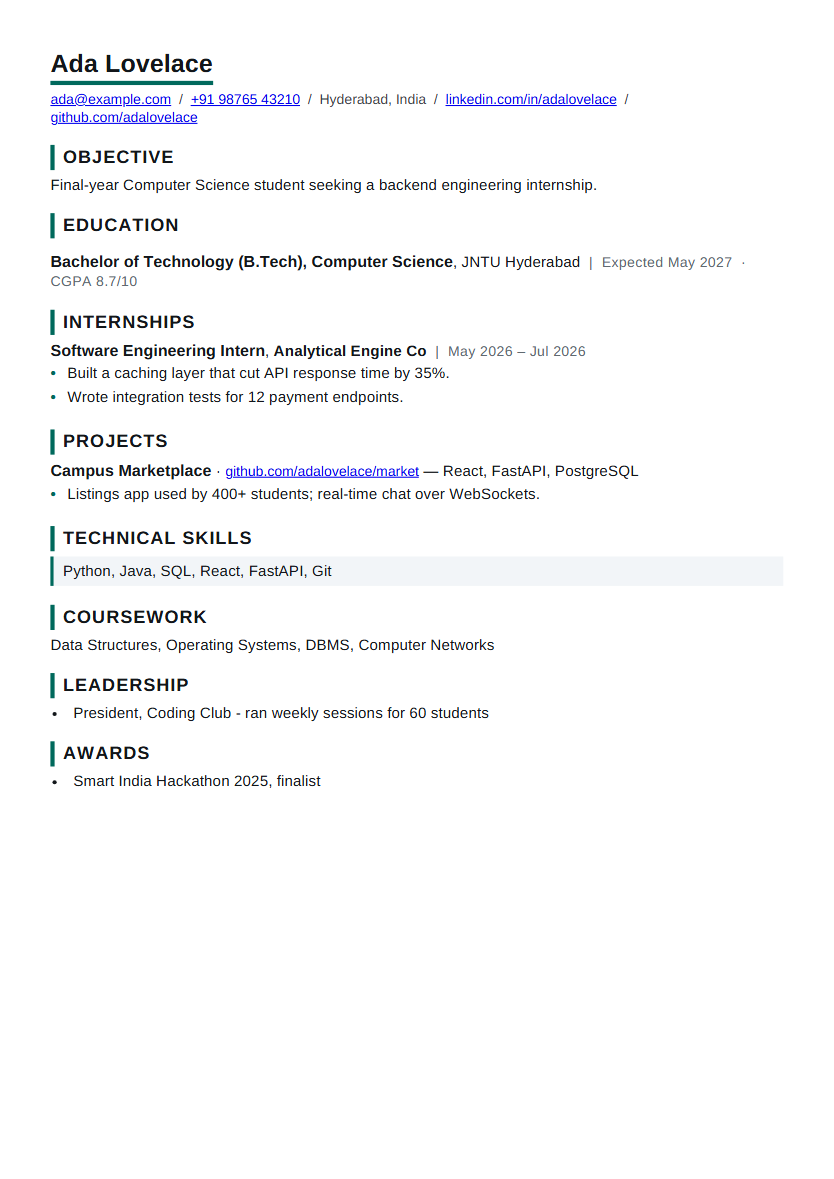
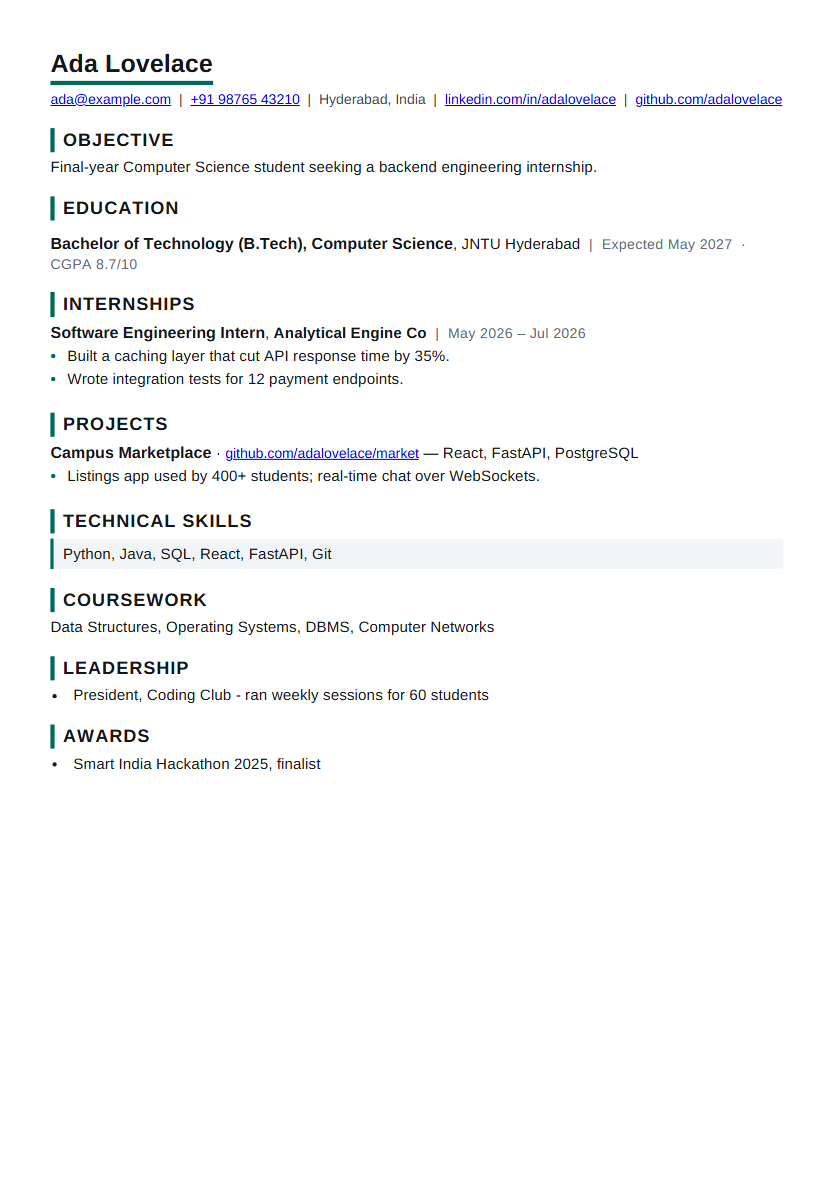
fix(templates): Technical separates contact items with "|"
The ATS reference lists "|" and "•" as the contact separators to use;
Technical (and its student twin, Campus Technical) used "/". Same spacing,
still written through contact_sep. Thumbnails rebuilt.

diff --git a/apps/api/templates/ats_technical.html b/apps/api/templates/ats_technical.html
@@ -72,7 +72,7 @@
   ('contact.github', contact.github | url_link(contact.github_label, 'contact.github')),
   ('contact.website', contact.website | url_link(contact.website_label, 'contact.website'))
 ] %}
-<div class="contact">{% for path, value in contact_parts if value %}{% if not loop.first %}{{ " &nbsp;/&nbsp; " | contact_sep(loop.index) }}{% endif %}<span class="contact-item" data-field="{{ path }}">{{ value }}</span>{% endfor %}</div>
+<div class="contact">{% for path, value in contact_parts if value %}{% if not loop.first %}{{ " &nbsp;|&nbsp; " | contact_sep(loop.index) }}{% endif %}<span class="contact-item" data-field="{{ path }}">{{ value }}</span>{% endfor %}</div>
 
 {% import "_blocks.html" as blocks with context %}
 {{ blocks.sections({"skills_cls": "skills-rail", "line_cls": "skills", "headings": {"skills": "Technical Skills"}, "order": ["summary_or_objective", "skills", "experience", "projects", "education", "languages", "certifications", "coursework", "awards", "achievements", "leadership", "volunteer", "interests"]}) }}
